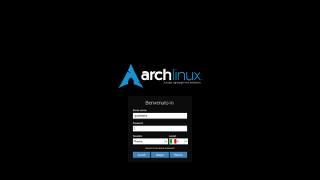
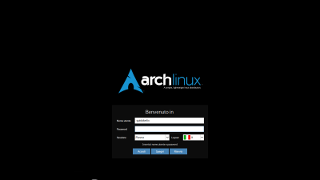
Additional graphical refinements; screenshots updated. 	modified:   archlinux-simplyblack/Main.qml 	modified:   archlinux-simplyblack/screenshot.png 	modified:   archlinux-soft-grey/Main.qml 	modified:   archlinux-soft-grey/screenshot.png

Changed region(s): [[0.3438, 0.6111, 0.6562, 0.8889], [0.375, 0.3611, 0.625, 0.5278], [0.4375, 0.5556, 0.5625, 0.5833]]

diff --git a/archlinux-simplyblack/Main.qml b/archlinux-simplyblack/Main.qml
@@ -176,11 +176,10 @@ Rectangle {
                             KeyNavigation.backtab: password; KeyNavigation.tab: layoutBox
                         }
                     }
-
                     Row {
                         z: 101
                         width: parent.width * 0.8
-                        spacing : 4
+                        spacing : 10
                         anchors.bottom: parent.bottom
 
                         Text {
@@ -188,6 +187,7 @@ Rectangle {
                             width: parent.width / 3; height: 30
                             text: textConstants.layout
                             verticalAlignment: Text.AlignVCenter
+                            horizontalAlignment: Text.AlignHCenter
                             color: "white"
                             wrapMode: TextEdit.WordWrap
                             font.bold: true
@@ -196,7 +196,7 @@ Rectangle {
 
                         LayoutBox {
                             id: layoutBox
-                            width: parent.width * 2 / 3; height: 30
+                            width: (parent.width * 2 / 3) -10; height: 30
 
                             arrowIcon: "angle-down.png"
 

diff --git a/archlinux-soft-grey/Main.qml b/archlinux-soft-grey/Main.qml
@@ -176,11 +176,10 @@ Rectangle {
                             KeyNavigation.backtab: password; KeyNavigation.tab: layoutBox
                         }
                     }
-
                     Row {
                         z: 101
                         width: parent.width * 0.8
-                        spacing : 4
+                        spacing : 10
                         anchors.bottom: parent.bottom
 
                         Text {
@@ -188,6 +187,7 @@ Rectangle {
                             width: parent.width / 3; height: 30
                             text: textConstants.layout
                             verticalAlignment: Text.AlignVCenter
+                            horizontalAlignment: Text.AlignHCenter
                             color: "white"
                             wrapMode: TextEdit.WordWrap
                             font.bold: true
@@ -196,7 +196,7 @@ Rectangle {
 
                         LayoutBox {
                             id: layoutBox
-                            width: parent.width * 2 / 3; height: 30
+                            width: (parent.width * 2 / 3) -10; height: 30
 
                             arrowIcon: "angle-down.png"
 
